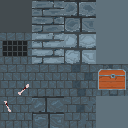
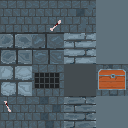
переделал рендер в левеле

diff --git a/RogueOfDungeons/Level.cpp b/RogueOfDungeons/Level.cpp
@@ -14,9 +14,10 @@
 
 Level::Level(SDL_Renderer* renderer) : ren (renderer)
 {
+	TileSet = 0;
 	floorLvl = 0;
-	TileTexture = textureManager::LoadTexture("images/Tiles.png", ren);
-	TileTextureCastle = textureManager::LoadTexture("images/CaslteTiles.png", ren);
+	TileTextures[0] = textureManager::LoadTexture("images/Tiles.png", ren);
+	TileTextures[1] = textureManager::LoadTexture("images/CaslteTiles.png", ren);
 	PlayBackground = textureManager::LoadTexture("images/Playback.png", ren); 
 	player = new Player(ren);
 	enemyTurtle = new Enemy("images/Turtle.png", 4, ren, 8, 8, 3, 4);
@@ -151,102 +152,14 @@ void Level::ChangeDark(int i, int j) {
 	}
 }
 
-void Level::CaveRender(int y, int x) {
-	int i = y;
-	int j = x;
-	if (textureLocation[i][j] == 0)
-	{
-		RenderManager::SetTile(j * 32, i * 32, 2, ren, TileTexture);
-	}
-	else
-	{
-		RenderManager::SetTile(j * 32, i * 32, 6, ren, TileTexture);
-	}
-	if (textureLocation[i][j] == 2) {
-		RenderManager::SetTile(j * 32, i * 32, 7, ren, TileTexture);
-	}
-	if (textureLocation[i][j] == 3) {
-		RenderManager::SetTile(j * 32, i * 32, 3, ren, TileTexture);
-	}
-	if (textureLocation[i][j] == 4) {
-		RenderManager::SetTile(j * 32, i * 32, 1, ren, TileTexture);
-	}
-	if (textureLocation[i][j] == 5) {
-		RenderManager::SetTile(j * 32, i * 32, 9, ren, TileTexture);
-	}
-	if (textureLocation[i][j] == 6) {
-		RenderManager::SetTile(j * 32, i * 32, 4, ren, TileTexture);
-	}
-	if (textureLocation[i][j] == 14) {
-		RenderManager::SetTile(j * 32, i * 32, 13, ren, TileTexture);
-	}
-	if (Dark[i][j] == 0) {
-		RenderManager::SetTile(j * 32, i * 32, 12, ren, TileTexture);
-	}
-}
-
-void Level::CastleRender(int y, int x) {
-	int i = y;
-	int j = x;
-	if (textureLocation[i][j] == 0)
-	{
-		RenderManager::SetTile(j * 32, i * 32, 6, ren, TileTextureCastle);
-	}
-	else
-	{
-		RenderManager::SetTile(j * 32, i * 32, 8, ren, TileTextureCastle);
-	}
-	if (textureLocation[i][j] == 2) {
-		RenderManager::SetTile(j * 32, i * 32, 9, ren, TileTextureCastle);
-	}
-	if (textureLocation[i][j] == 3) {
-		RenderManager::SetTile(j * 32, i * 32, 2, ren, TileTextureCastle);
-	}
-	if (textureLocation[i][j] == 4) {
-		RenderManager::SetTile(j * 32, i * 32, 3, ren, TileTextureCastle);
-	}
-	if (textureLocation[i][j] == 5) {
-		RenderManager::SetTile(j * 32, i * 32, 7, ren, TileTextureCastle);
-	}
-	if (textureLocation[i][j] == 6) {
-		RenderManager::SetTile(j * 32, i * 32, 1, ren, TileTextureCastle);
-	}
-	if (textureLocation[i][j] == 7) {
-		RenderManager::SetTile(j * 32, i * 32, 10, ren, TileTextureCastle);
-	}
-	if (textureLocation[i][j] == 8) {
-		RenderManager::SetTile(j * 32, i * 32, 11, ren, TileTextureCastle);
-	}
-	if (textureLocation[i][j] == 14) {
-		RenderManager::SetTile(j * 32, i * 32, 14, ren, TileTextureCastle);
-	}
-	if (Dark[i][j] == 0) {
-		RenderManager::SetTile(j * 32, i * 32, 12, ren, TileTexture);
-	}
-}
-
 void Level::Render()
 {
 	RenderManager::CopyToRender(PlayBackground, ren);
-	
-	//в зависимости от метода генерации выбираются нужные паки текстур
-	if ((generateChoose == 0) || (generateChoose == 2) || (generateChoose == 4)) {
-		for (int i = 0; i < 22; i++)
+	for (int i = 0; i < 22; i++)
+	{
+		for (int j = 0; j < 32; j++)
 		{
-			for (int j = 0; j < 32; j++)
-			{
-				CaveRender(i, j);
-			}
-		}
-	}
-
-	if ((generateChoose == 1)||(generateChoose == 5)) {
-		for (int i = 0; i < 22; i++)
-		{
-			for (int j = 0; j < 32; j++)
-			{
-				CastleRender(i, j);
-			}
+			RenderManager::SetTile(j*32, i*32, textureLocation[i][j], ren, TileTextures[TileSet]);
 		}
 	}
 	if (player != nullptr)
@@ -257,7 +170,7 @@ void Level::Render()
 	{
 		if (Dark[EntityPosition::Coords[3]/32][EntityPosition::Coords[2]/32] == 0) 
 		{
-			RenderManager::SetTile(EntityPosition::Coords[2], EntityPosition::Coords[3], 12, ren, TileTexture);
+			RenderManager::SetTile(EntityPosition::Coords[2], EntityPosition::Coords[3], 12, ren, TileTextures[0]);
 		}
 		else
 		{
@@ -442,7 +355,7 @@ void Level::handleEvents(SDL_Event eventInLvl)
 
 void Level::Generate() {
 	srand(time(0));
-	generateChoose = 5;
+	generateChoose = 1;
 	player->generate = generateChoose;
 	enemyTurtle->generate = generateChoose;
 	if (generateChoose == 0) {

diff --git a/RogueOfDungeons/Managers.cpp b/RogueOfDungeons/Managers.cpp
@@ -45,59 +45,7 @@ void RenderManager::CopyToRender(SDL_Texture* texture, SDL_Renderer* ren)
 }
 
 void RenderManager::SetTile(int x, int y, int tile, SDL_Renderer* renderer, SDL_Texture* TileTexture) {
-	switch (tile)
-	{
-	case 0:
-		RenderManager::CopyToRender(TileTexture, renderer, x, y, 32, 32, 0, 0, 32, 32);
-		break;
-	case 1:
-		RenderManager::CopyToRender(TileTexture, renderer, x, y, 32, 32, 0, 32, 32, 32);
-		break;
-	case 2:
-		RenderManager::CopyToRender(TileTexture, renderer, x, y, 32, 32, 0, 64, 32, 32);
-		break;
-	case 3:
-		RenderManager::CopyToRender(TileTexture, renderer, x, y, 32, 32, 0, 96, 32, 32);
-		break;
-	case 4:
-		RenderManager::CopyToRender(TileTexture, renderer, x, y, 32, 32, 32, 0, 32, 32);
-		break;
-	case 5:
-		RenderManager::CopyToRender(TileTexture, renderer, x, y, 32, 32, 32, 32, 32, 32);
-		break;
-	case 6:
-		RenderManager::CopyToRender(TileTexture, renderer, x, y, 32, 32, 32, 64, 32, 32);
-		break;
-	case 7:
-		RenderManager::CopyToRender(TileTexture, renderer, x, y, 32, 32, 32, 96, 32, 32);
-		break;
-	case 8:
-		RenderManager::CopyToRender(TileTexture, renderer, x, y, 32, 32, 64, 0, 32, 32);
-		break;
-	case 9:
-		RenderManager::CopyToRender(TileTexture, renderer, x, y, 32, 32, 64, 32, 32, 32);
-		break;
-	case 10:
-		RenderManager::CopyToRender(TileTexture, renderer, x, y, 32, 32, 64, 64, 32, 32);
-		break;
-	case 11:
-		RenderManager::CopyToRender(TileTexture, renderer, x, y, 32, 32, 64, 96, 32, 32);
-		break;
-	case 12:
-		RenderManager::CopyToRender(TileTexture, renderer, x, y, 32, 32, 96, 0, 32, 32);
-		break;
-	case 13:
-		RenderManager::CopyToRender(TileTexture, renderer, x, y, 32, 32, 96, 32, 32, 32);
-		break;
-	case 14:
-		RenderManager::CopyToRender(TileTexture, renderer, x, y, 32, 32, 96, 64, 32, 32);
-		break;
-	case 15:
-		RenderManager::CopyToRender(TileTexture, renderer, x, y, 32, 32, 96, 96, 32, 32);
-		break;
-	default:
-		break;
-	}
+	RenderManager::CopyToRender(TileTexture, renderer, x, y, 32, 32, (tile / 4) * 32, (tile % 4) * 32, 32, 32);
 }
 
 SDL_Texture* FontManager::renderText(const char* text, const char* fontFile, SDL_Color textColor, int fontSize, SDL_Renderer* renderer) 

diff --git a/RogueOfDungeons/Level.h b/RogueOfDungeons/Level.h
@@ -28,8 +28,8 @@ private:
 	int Location[22][32];
 	int Dark[22][32];
 	//int Location2[22][32];
-	SDL_Texture* TileTexture;
-	SDL_Texture* TileTextureCastle;
+	int TileSet;
+	SDL_Texture* TileTextures[5];
 	SDL_Texture* PlayBackground;
 	SDL_Renderer* ren;
 	Player* player;
@@ -53,8 +53,6 @@ private:
 	//void OtherGeneration(int startX, int startY, int endX, int endY);
 	//bool Search(std::vector<std::pair<int, int>> vector, int x, int y);
 	//int SearchNum(std::vector<std::pair<int, int>> vector, int x, int y);
-	void CaveRender(int y, int x);
-	void CastleRender(int y, int x);
 	void ChangeDark(int i, int j);
 	void ChunkGenerationMethod();
 	void ChunkGenerationMethod2();
